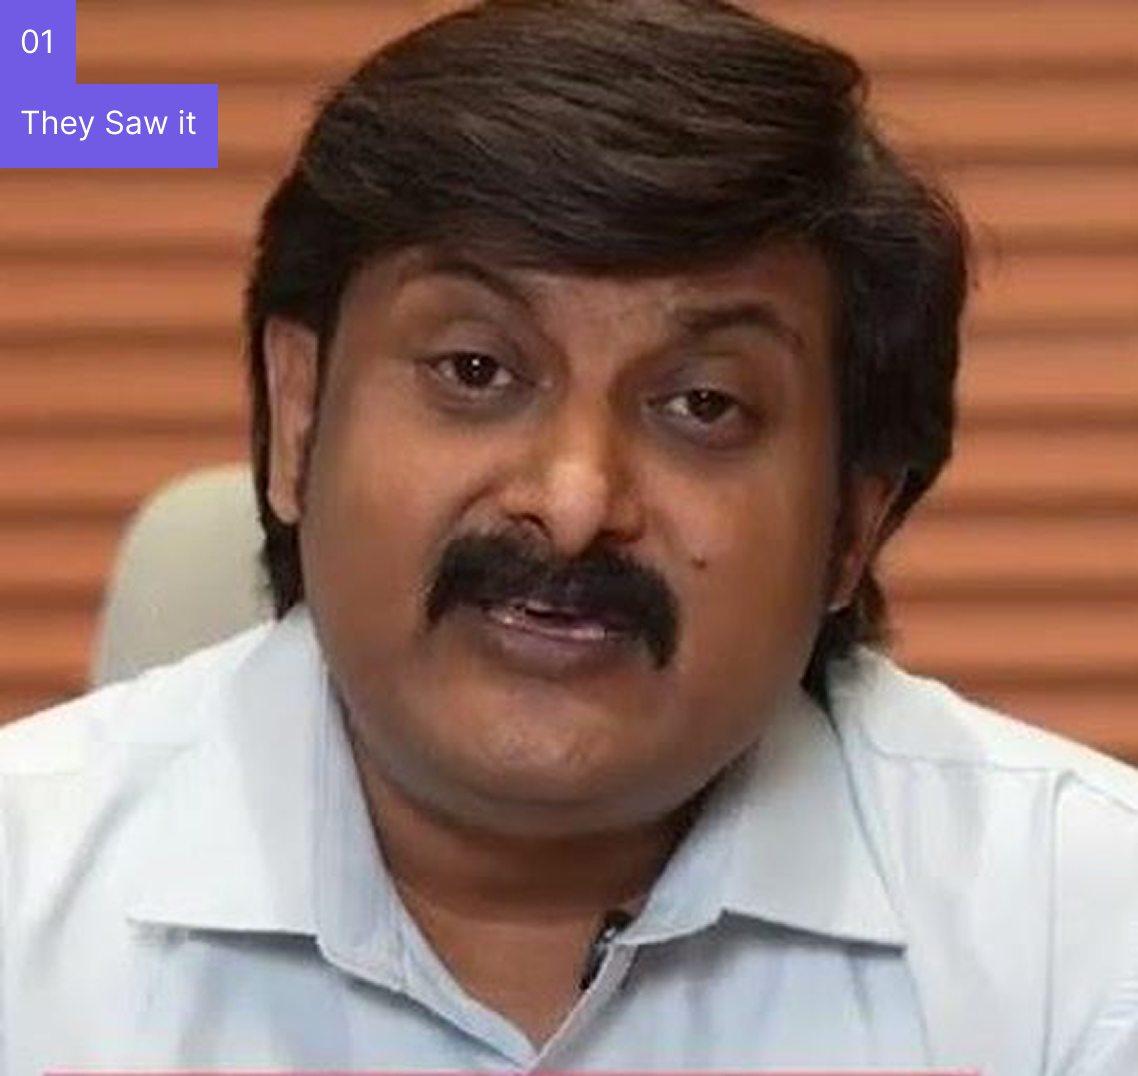
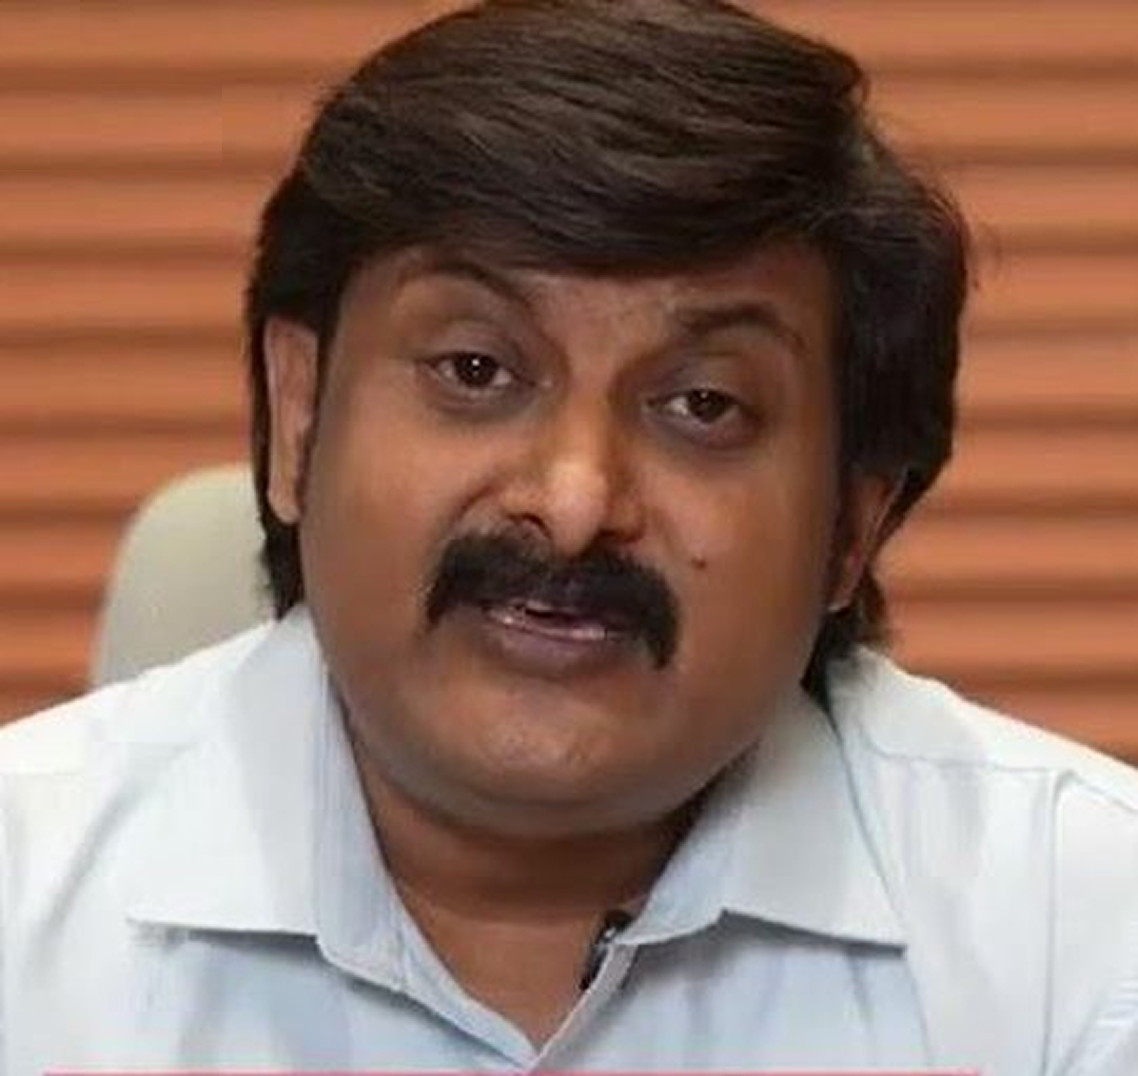
PlatinumRx case study photo without its baked-in labels; mobile Featured Work step removed
- The "01" and "They Saw it" tags are painted out of the photo, filled
  with the window blinds behind them
- Mobile Featured Work: drop the small white step off the caption's edge

Changed region(s): [[0.0, 0.0, 0.2153, 0.1533]]

diff --git a/app/globals.css b/app/globals.css
@@ -2088,19 +2088,6 @@ html.nav-hidden .hx-bar {
   color: #121212
 }
 
-/* a small white step off the caption's right edge, cut into the photo's
-   bottom corner — it joins the caption box to the white under the card, so
-   the two read as one tetris piece (the photo ends at 96cqw) */
-.fw-top::after {
-  content: "";
-  position: absolute;
-  left: 90cqw;
-  bottom: 0;
-  width: 6cqw;
-  height: 8cqw;
-  background: var(--paper)
-}
-
 /* the acid frame: a bar down the left and along most of the foot, a short
    one across the top-left, and a separate bar down the right edge */
 .fw-quote {
